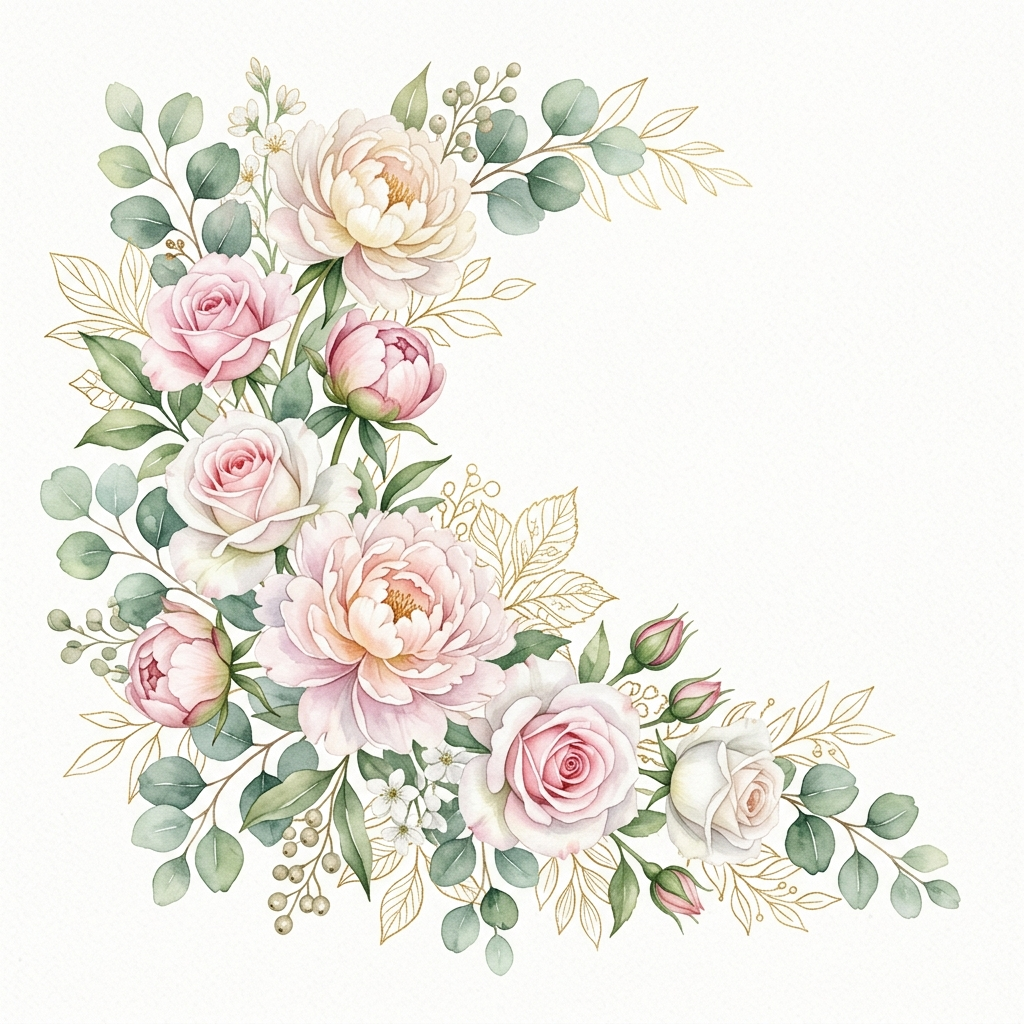
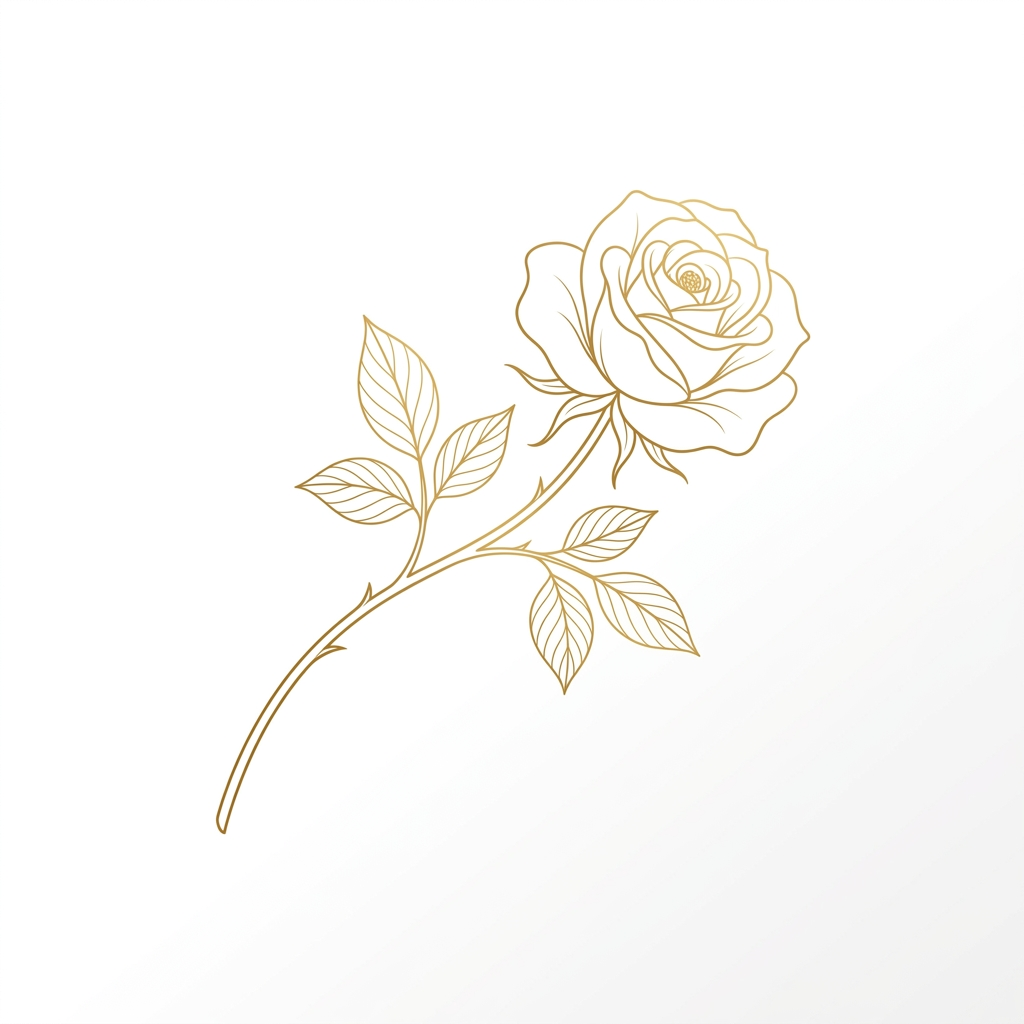
Update decorative flowers to elegant gold line art and refine luxury typography

diff --git a/style.css b/style.css
@@ -164,18 +164,18 @@ body {
 
 .brand-title {
     font-family: 'Playfair Display', serif;
-    font-size: 2.2rem;
-    font-weight: 600;
+    font-size: 2.3rem;
+    font-weight: 500;
     color: var(--color-primary);
-    margin-bottom: 6px;
-    letter-spacing: -0.5px;
+    margin-bottom: 8px;
+    letter-spacing: 0.5px;
 }
 
 .brand-subtitle {
-    font-size: 0.85rem;
+    font-size: 0.7rem;
     color: var(--color-text-muted);
-    font-weight: 400;
-    letter-spacing: 0.5px;
+    font-weight: 500;
+    letter-spacing: 3px;
     text-transform: uppercase;
 }
 